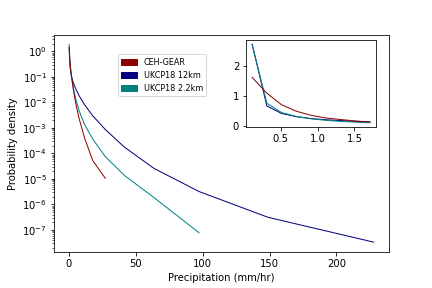
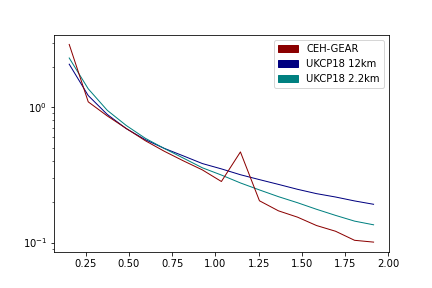
>

diff --git a/PrecipitationPDFs/leeds-at-centre/Compare_RCM_CPM_OBS.py b/PrecipitationPDFs/leeds-at-centre/Compare_RCM_CPM_OBS.py
@@ -198,9 +198,7 @@ if jja_status == 'jja':
           # Readd to dictionary
           dict[resolution] = leeds_data
 
-
 ##############################################################################
-
 ##############################################################################
 # Plotting
 ##############################################################################
@@ -320,114 +318,133 @@ bins_if_log_spaced= bin_nos
 # # plt.savefig("Scripts/UKCP18/PrecipitationPDFs/leeds-at-centre/PDFs/FullTimePeriod_RCMvsCPMvsObs/Just12kms_{}.png".format(jja_status))
 #
 # ##################### Better legend
-# for dict, overlapping_status in zip([leeds_data_dict, leeds_data_dict_overlapping], ["","_Overlapping"]):
-#     print(dict.keys(), overlapping_status)
-#     just_12km = dict.copy()
-#     del just_12km['Model 2.2km'], just_12km['Observations Regridded_2.2km'], just_12km['Observations']
-#
-#     # Wet hours
-#     #for key in just_12km.keys():
-#     #    just_12km[key] = just_12km[key][just_12km[key]['Precipitation (mm/hr)'] > 0.1]
-#
-#     cols_dict = {'Observations Regridded_12km' : 'darkred',
-#                  'Model 12km' : 'navy',
-#                  'Model 2.2km_regridded_12km': 'teal'}
-#
-#     # Create patches
-#     patches= []
-#     patches.append(mpatches.Patch(color= 'darkred', label= 'CEH-GEAR'))
-#     patches.append(mpatches.Patch(color= 'navy', label= 'UKCP18 12km'))
-#     patches.append(mpatches.Patch(color= 'teal', label= 'UKCP18 2.2km'))
-#
-#     # Create plot
-#     log_discrete_with_inset(just_12km, cols_dict, bin_nos, "Precipitation (mm/hr)",
-#                                       patches, True, False)
-#     plt.savefig("Scripts/UKCP18/PrecipitationPDFs/leeds-at-centre/PDFs/FullTimePeriod_RCMvsCPMvsObs/Just12kms_{}_{}.png".format(overlapping_status, jja_status))
-
-
-# # ##########################################################################
-# # # Percentile plots
-# # ##########################################################################
-navy_patch = mpatches.Patch(color='navy', label='Model 12km')
-teal_patch = mpatches.Patch(color='teal', label='Model 2.2km')
-darkred_patch = mpatches.Patch(color='darkred', label='Observations 1km')
-
 for dict, overlapping_status in zip([leeds_data_dict, leeds_data_dict_overlapping], ["","_Overlapping"]):
     print(dict.keys(), overlapping_status)
     just_12km = dict.copy()
     del just_12km['Model 2.2km'], just_12km['Observations Regridded_2.2km'], just_12km['Observations']
 
-    keys, p_99_9999, p_99_999, p_99_99, p_99_99, p_99_95, p_99_9, p_99_5, p_99, p_95, p_90, p_80, p_70, p_60, p_50, p_40, p_30, p_20, p_10 = [], [], [], [], [], [], [], [],[], [], [], [    ],[], [], [], [], [], [], []
+    # Wet hours
+    #for key in just_12km.keys():
+    #    just_12km[key] = just_12km[key][just_12km[key]['Precipitation (mm/hr)'] > 0.1]
 
-    for key, value in just_12km.items():
-        df = just_12km[key]
-        keys.append(key)
-        p_99_9999.append(df['Precipitation (mm/hr)'].quantile(0.999999))
-        p_99_999.append(df['Precipitation (mm/hr)'].quantile(0.99999))
-        p_99_99.append(df['Precipitation (mm/hr)'].quantile(0.9999))
-        p_99_95.append(df['Precipitation (mm/hr)'].quantile(0.9995))
-        p_99_9.append(df['Precipitation (mm/hr)'].quantile(0.999))
-        p_99_5.append(df['Precipitation (mm/hr)'].quantile(0.995))
-        p_99.append(df['Precipitation (mm/hr)'].quantile(0.99))
-        p_95.append(df['Precipitation (mm/hr)'].quantile(0.95))
-        p_90.append(df['Precipitation (mm/hr)'].quantile(0.9))
-        p_80.append(df['Precipitation (mm/hr)'].quantile(0.8))
-        p_70.append(df['Precipitation (mm/hr)'].quantile(0.7))
-        p_60.append(df['Precipitation (mm/hr)'].quantile(0.6))
-        p_50.append(df['Precipitation (mm/hr)'].quantile(0.5))
-        p_40.append(df['Precipitation (mm/hr)'].quantile(0.4))
-        p_30.append(df['Precipitation (mm/hr)'].quantile(0.3))
-        p_20.append(df['Precipitation (mm/hr)'].quantile(0.2))
-        p_10.append(df['Precipitation (mm/hr)'].quantile(0.1))
+    cols_dict = {'Observations Regridded_12km' : 'darkred',
+                 'Model 12km' : 'navy',
+                 'Model 2.2km_regridded_12km': 'teal'}
+
+    # Create patches
+    patches= []
+    patches.append(mpatches.Patch(color= 'darkred', label= 'CEH-GEAR'))
+    patches.append(mpatches.Patch(color= 'navy', label= 'UKCP18 12km'))
+    patches.append(mpatches.Patch(color= 'teal', label= 'UKCP18 2.2km'))
+
+    # Create plot
+    df = log_discrete_with_inset(just_12km, cols_dict, bin_nos, "Precipitation (mm/hr)",
+                                      patches, True, False)
+    plt.savefig("Scripts/UKCP18/PrecipitationPDFs/leeds-at-centre/PDFs/FullTimePeriod_RCMvsCPMvsObs/Just12kms_{}_{}.png".format(overlapping_status, jja_status))
 
 
-    df= pd.DataFrame({'Key':keys, '10': p_10,
-                      '20': p_20,'30': p_30,
-                      '40': p_40,  '50': p_50,
-                      '60': p_60, '70': p_70,
-                      '80': p_80, '90': p_90,
-                      '95': p_95, '99': p_99,
-                      '99.5': p_99_5, '99.9': p_99_9,
-                    '99.95': p_99_95, '99.99': p_99_99,
-                    '99.999': p_99_999, '99.9999': p_99_9999})
-
-    test = df.transpose()
-    test = test.rename(columns=test.iloc[0]).drop(test.index[0])
-
-    # Plot
-    #for x in [5,17,]
-    for x, name in zip([5, 11,17], ["10-50", "10-99","10-99.9999"]):
-        fig = plt.figure()
-        for key, value in just_12km.items():
-            print(key)
-            if key == 'Model 12km':
-                filtered = test[key]
-                filtered = filtered[:x]
-                plt.plot(filtered, color = 'navy')
-            if key == 'Model 2.2km_regridded_12km':
-                filtered = test[key]
-                filtered = filtered[:x]
-                plt.plot(filtered, color = 'teal')
-            if key == 'Observations Regridded_12km':
-                filtered = test[key]
-                filtered = filtered[:x]
-                plt.plot(filtered, color = 'darkred')
-            plt.xlabel('Percentile')
-            plt.ylabel('Precipitation (mm/hr)')
-            plt.legend(handles=[darkred_patch, navy_patch, teal_patch])
-            plt.yscale('log')
-            plt.xticks(rotation = 23)
-        plt.savefig("Scripts/UKCP18/PrecipitationPDFs/leeds-at-centre/PDFs/PercentileThresholds/{}_{}_{}_log.png".format(name, overlapping_status, jja_status))
-        plt.clf()
-
-
-## Proportion of values in each which are 0
+# # ##########################################################################
+# # # Percentile plots
+# # ##########################################################################
+# navy_patch = mpatches.Patch(color='navy', label='Model 12km')
+# teal_patch = mpatches.Patch(color='teal', label='Model 2.2km')
+# darkred_patch = mpatches.Patch(color='darkred', label='Observations 1km')
+#
+# for dict, overlapping_status in zip([leeds_data_dict, leeds_data_dict_overlapping], ["","_Overlapping"]):
+#     print(dict.keys(), overlapping_status)
+#     just_12km = dict.copy()
+#     del just_12km['Model 2.2km'], just_12km['Observations Regridded_2.2km'], just_12km['Observations']
+#
+#     keys, p_99_9999, p_99_999, p_99_99, p_99_99, p_99_95, p_99_9, p_99_5, p_99, p_95, p_90, p_80, p_70, p_60, p_50, p_40, p_30, p_20, p_10 = [], [], [], [], [], [], [], [],[], [], [], [    ],[], [], [], [], [], [], []
+#
+#     for key, value in just_12km.items():
+#         df = just_12km[key]
+#         keys.append(key)
+#         p_99_9999.append(df['Precipitation (mm/hr)'].quantile(0.999999))
+#         p_99_999.append(df['Precipitation (mm/hr)'].quantile(0.99999))
+#         p_99_99.append(df['Precipitation (mm/hr)'].quantile(0.9999))
+#         p_99_95.append(df['Precipitation (mm/hr)'].quantile(0.9995))
+#         p_99_9.append(df['Precipitation (mm/hr)'].quantile(0.999))
+#         p_99_5.append(df['Precipitation (mm/hr)'].quantile(0.995))
+#         p_99.append(df['Precipitation (mm/hr)'].quantile(0.99))
+#         p_95.append(df['Precipitation (mm/hr)'].quantile(0.95))
+#         p_90.append(df['Precipitation (mm/hr)'].quantile(0.9))
+#         p_80.append(df['Precipitation (mm/hr)'].quantile(0.8))
+#         p_70.append(df['Precipitation (mm/hr)'].quantile(0.7))
+#         p_60.append(df['Precipitation (mm/hr)'].quantile(0.6))
+#         p_50.append(df['Precipitation (mm/hr)'].quantile(0.5))
+#         p_40.append(df['Precipitation (mm/hr)'].quantile(0.4))
+#         p_30.append(df['Precipitation (mm/hr)'].quantile(0.3))
+#         p_20.append(df['Precipitation (mm/hr)'].quantile(0.2))
+#         p_10.append(df['Precipitation (mm/hr)'].quantile(0.1))
+#
+#
+#     df= pd.DataFrame({'Key':keys, '10': p_10,
+#                       '20': p_20,'30': p_30,
+#                       '40': p_40,  '50': p_50,
+#                       '60': p_60, '70': p_70,
+#                       '80': p_80, '90': p_90,
+#                       '95': p_95, '99': p_99,
+#                       '99.5': p_99_5, '99.9': p_99_9,
+#                     '99.95': p_99_95, '99.99': p_99_99,
+#                     '99.999': p_99_999, '99.9999': p_99_9999})
+#
+#     test = df.transpose()
+#     test = test.rename(columns=test.iloc[0]).drop(test.index[0])
+#
+#     # Plot
+#     #for x in [5,17,]
+#     for x, name in zip([5, 11,17], ["10-50", "10-99","10-99.9999"]):
+#         fig = plt.figure()
+#         for key, value in just_12km.items():
+#             print(key)
+#             if key == 'Model 12km':
+#                 filtered = test[key]
+#                 filtered = filtered[:x]
+#                 plt.plot(filtered, color = 'navy')
+#             if key == 'Model 2.2km_regridded_12km':
+#                 filtered = test[key]
+#                 filtered = filtered[:x]
+#                 plt.plot(filtered, color = 'teal')
+#             if key == 'Observations Regridded_12km':
+#                 filtered = test[key]
+#                 filtered = filtered[:x]
+#                 plt.plot(filtered, color = 'darkred')
+#             plt.xlabel('Percentile')
+#             plt.ylabel('Precipitation (mm/hr)')
+#             plt.legend(handles=[darkred_patch, navy_patch, teal_patch])
+#             plt.yscale('log')
+#             plt.xticks(rotation = 23)
+#         plt.savefig("Scripts/UKCP18/PrecipitationPDFs/leeds-at-centre/PDFs/PercentileThresholds/{}_{}_{}_log.png".format(name, overlapping_status, jja_status))
+#         plt.clf()
+#
+#
+# ## Proportion of values in each which are 0
 # Should this be with regridded data?
+less_low_hours_lst = []
+low_hours_lst = []
 dry_hours_lst = []
 zero_hours_lst= []
 for key, value in just_12km.items():
     print(key)
     df= value
+    less_low_hours_lst.append(round((len(value[value['Precipitation (mm/hr)'] <1])/len(value) *100  ),1))
+    low_hours_lst.append(round((len(value[value['Precipitation (mm/hr)'] <0.51])/len(value) *100  ),1))
     zero_hours_lst.append(round((len(value[value['Precipitation (mm/hr)'] ==0])/len(value) *100  ),1))
-    dry_hours_lst.append(round((len(value[value['Precipitation (mm/hr)'] < 0.1])/len(value) *100  ),1))
-zeros_df = pd.DataFrame({'Key': list(just_12km.keys()), '% hours 0': zero_hours_lst, '% hours <0.1': dry_hours_lst})
+    dry_hours_lst.append(round((len(value[value['Precipitation (mm/hr)'] < 0.11])/len(value) *100  ),1))
+zeros_df = pd.DataFrame({'Key': list(just_12km.keys()), '% hours 0': zero_hours_lst, '% hours <0.1': dry_hours_lst ,'% hours <0.5': low_hours_lst,
+                         '% hours <1': less_low_hours_lst})
+
+
+model_12km = just_12km['Model 12km']
+model_2_2km = just_12km['Model 2.2km_regridded_12km']
+obs = just_12km['Observations Regridded_12km']
+bins = [0.01, 0.11, 0.21, 0.31, 0.41,0.51, 0.61,0.71,0.81,0.91,1]
+bins = [0.01, 0.21, 0.41, 0.61, 0.81, 1.01, 1.21, 1.41, 1.61 ,1.81, 2.01]
+#        ,2.21, 2.41, 2.61, 2.81, 3.01, 3.21, 3.41, 3.61, 3.81, 4.01]
+
+plt.hist([obs['Precipitation (mm/hr)'], model_12km['Precipitation (mm/hr)'], model_2_2km['Precipitation (mm/hr)']],
+          label = ['CEH-GEAR', 'UKCP18 12km', 'UKCP18 2.2km'],bins = bins,
+          density = True, color = ['firebrick', 'navy',  'teal'])
+plt.legend()
+plt.xticks(bins)

diff --git a/GlobalFunctions/PDF_plotting_functions.py b/GlobalFunctions/PDF_plotting_functions.py
@@ -469,7 +469,6 @@ def log_discrete_with_inset(results_dict, cols_dict, bin_nos, precip_variable, p
     # dataframe to store numbers in each bin
     numbers_in_each_bin = pd.DataFrame()
     
-    
     fig, ax1 = plt.subplots()
     left, bottom, width, height = [0.57, 0.56, 0.3, 0.3]
     ax2=fig.add_axes([left, bottom, width, height])
@@ -519,26 +518,33 @@ def log_discrete_with_inset(results_dict, cols_dict, bin_nos, precip_variable, p
     # Inset axis
     #ax2.plot(range(6), color = 'green')                   
     #patches= []
+    fig,ax = plt.subplots()
     for key, df in results_dict.items():
-        #print(key)
-        col = cols_dict[key]
-        #patch = mpatches.Patch(color=col, label=key)
-        #patches.append(patch)
-        
-        low_precips = df[(df["Precipitation (mm/hr)"] >0) & (df["Precipitation (mm/hr)"] <2)]
-        
-        # Specifying like this because gauge data is only at 0.2 intervals, so below this doesnt make sense
-        bin_edges = np.arange(0.01,2.01,0.2)
-        
-        # Create a histogram and save the bin edges and the values in each bin
-        values, bin_edges = np.histogram(low_precips["Precipitation (mm/hr)"], bins=bin_edges, density=True)
-        # Calculate the bin central positions
-        bin_centres =  0.5*(bin_edges[1:] + bin_edges[:-1])
-        # Draw the plot
-        ax2.plot(bin_centres, values,linewidth = 1, color = cols_dict[key])
-        #plt.plot(bin_centres, values, color='black', marker='o',markersize =1, linewidth=0.5, markerfacecolor = 'red')
-        #plt.hist(wethours['Precipitation (mm/hr)'], bins = bin_no, density = True, color = 'white', edgecolor = 'black', linewidth= 0.5)
-       
+        print(key)
+        if key in ['Observations Regridded_12km','Model 12km', 'Model 2.2km_regridded_12km']:
+            col = cols_dict[key]
+            #patch = mpatches.Patch(color=col, label=key)
+            #patches.append(patch)
+            low_precips = df[(df["Precipitation (mm/hr)"] >=0) & (df["Precipitation (mm/hr)"] <10)]
+            if key =='Observations Regridded_12km':
+                low_precips["Precipitation (mm/hr)"] = round(low_precips["Precipitation (mm/hr)"],1)
+            low_precips_12km = results_dict['Model 12km'][(results_dict['Model 12km']["Precipitation (mm/hr)"] >=0) & (results_dict['Model 12km']["Precipitation (mm/hr)"] <10)]
+            low_precips_2_2km = results_dict['Model 2.2km_regridded_12km'][(results_dict['Model 2.2km_regridded_12km']["Precipitation (mm/hr)"] >=0) & (results_dict['Model 2.2km_regridded_12km']["Precipitation (mm/hr)"] <10)]
+            
+            # Specifying like this because gauge data is only at 0.2 intervals, so below this doesnt make sense
+            bin_edges = np.arange(0.1,2.01,0.11)
+            
+            # Create a histogram and save the bin edges and the values in each bin
+            values, bin_edges = np.histogram(low_precips["Precipitation (mm/hr)"], bins=bin_edges, density=True)
+            
+            # Calculate the bin central positions
+            bin_centres =  0.5*(bin_edges[1:] + bin_edges[:-1])
+            # Draw the plot
+            plt.plot(bin_centres, values,linewidth = 1, color = cols_dict[key])
+            #plt.plot(bin_centres, values, color='black', marker='o',markersize =1, linewidth=0.5, markerfacecolor = 'red')
+            #plt.hist(wethours['Precipitation (mm/hr)'], bins = bin_no, density = True, color = 'white', edgecolor = 'black', linewidth= 0.5)
+            plt.legend(handles=patches)
+            ax.set_yscale('log')
     #plt.legend(handles=patches)
     #ax2.set_xlabel(precip_variable)
     #ax2.set_ylabel('Probability density')
